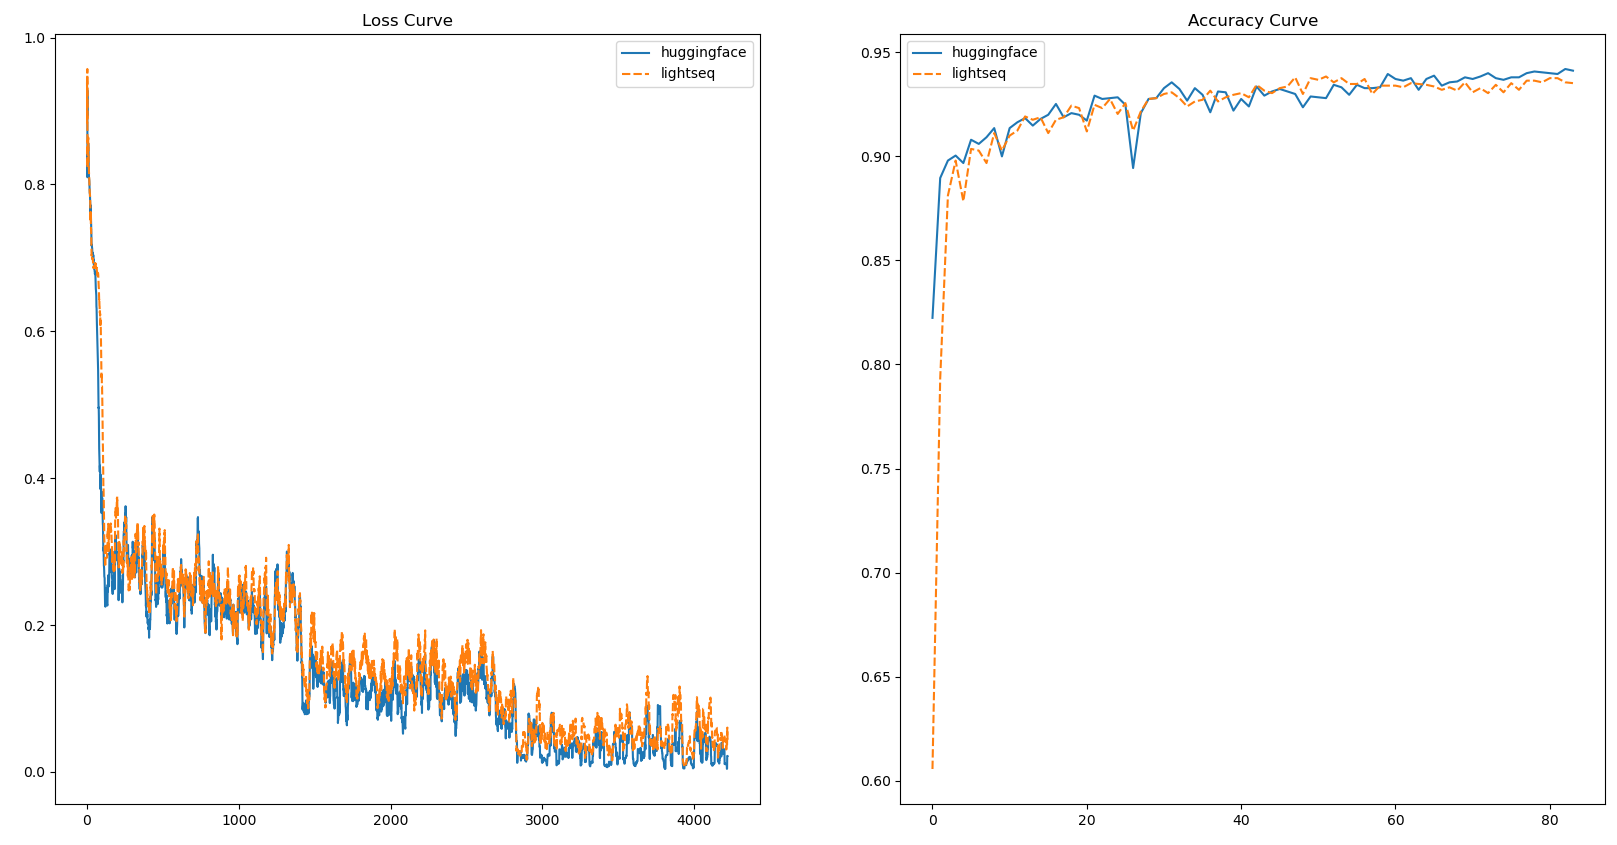
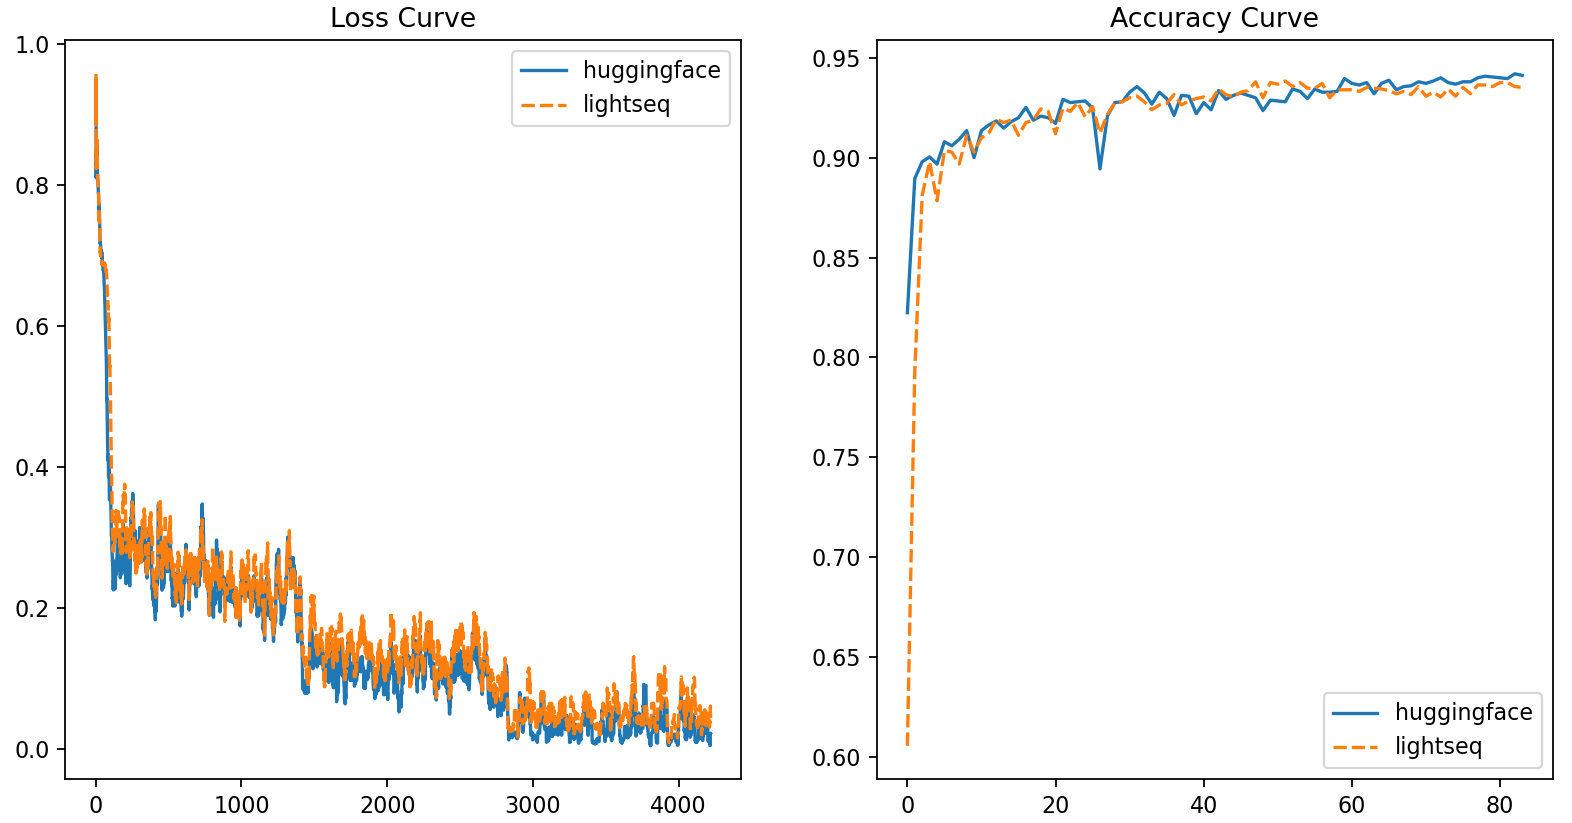
Update graphs

diff --git a/benchmark/systematic_graph.py b/benchmark/systematic_graph.py
@@ -20,37 +20,49 @@ batch_size = {8: 'black', 16: 'pink', 32: 'brown'}
 device_color = "tab10"
 
 # (2, 2) subplots
-figs, ax = plt.subplots(2, 2, figsize=(12, 12))
+figs, ax = plt.subplots(2, 2, figsize=(10, 10), dpi=160)
+
 
 # 1st subplot, hue is optimizer
-ax[0, 1].set(xlabel='Time (second)', ylabel='Energy (kW·h)')
+# ax[0, 1].set(xlabel='Time (second)', ylabel='Energy (kW·h)')
+ax[0, 1].set_xlabel(xlabel='Time (second)', fontsize=12)
+ax[0, 1].set_ylabel(ylabel='Energy (kW·h)', fontsize=12)
 # subplot title
-ax[0, 1].set_title('(B) Training Energy and Time')
+ax[0, 1].set_title('(B) Training Energy and Time', fontsize=12)
 # df without TPUv2 and TPUv3
 df_no_TPU = df[(df['device']!='TPUv2') & (df['device']!='TPUv3')]
 sns.scatterplot(data=df_no_TPU, x='time', y='energy', hue='device', palette=device_color, ax=ax[0, 1])
 
 # 2nd boxplot, y is accuracy, x is time, hue is mixed_precision, shape is optimizer
-ax[1, 1].set(xlabel='Time (second)', ylabel='Accuracy (%)')
-ax[1, 1].set_title('(D) Test Accuracy and Time')
+# ax[1, 1].set(xlabel='Time (second)', ylabel='Accuracy (%)')
+ax[1, 1].set_xlabel(xlabel='Time (second)', fontsize=12)
+ax[1, 1].set_ylabel(ylabel='Accuracy (%)', fontsize=12)
+ax[1, 1].set_title('(D) Test Accuracy and Time', fontsize=12)
 sns.scatterplot(data=df, x='time', y='accuracy', hue='mixed_precision', palette=mixed_precision, ax=ax[1, 1], style='optimizer')
 
 # 3nd subplot, x is cost, y is time
-ax[1, 0].set(ylabel='Cost ($)', xlabel='Time (second)')
-ax[1, 0].set_title('(C) Training Cost and Time')
+# ax[1, 0].set(ylabel='Cost ($)', xlabel='Time (second)')
+ax[1, 0].set_xlabel(xlabel='Time (second)', fontsize=12)
+ax[1, 0].set_ylabel(ylabel='Cost ($)', fontsize=12)
+ax[1, 0].set_title('(C) Training Cost and Time', fontsize=12)
 sns.scatterplot(data=df, y='cost', x='time', hue='device', palette=device_color, ax=ax[1, 0])
 
 # 4th subplot, x is cost, y is energy
-ax[0, 0].set(ylabel='Cost ($)', xlabel='Energy (kW·h)')
-ax[0, 0].set_title('(A) Training Cost and Energy')
+# ax[0, 0].set(ylabel='Cost ($)', xlabel='Energy (kW·h)')
+ax[0, 0].set_xlabel(xlabel='Energy (kW·h)', fontsize=12)
+ax[0, 0].set_ylabel(ylabel='Cost ($)', fontsize=12)
+ax[0, 0].set_title('(A) Training Cost and Energy', fontsize=12)
 sns.scatterplot(data=df[(df['device']!='TPUv2') & (df['device']!='TPUv3')], y='cost', x='energy', hue='device', palette=device_color, ax=ax[0, 0])
 
-plt.savefig('overall_results_v3.png')
+
+plt.savefig('overall_results_v3_fnt12.png')
 
 # new figure for {v100 lightseq fused adan, batch size=16, 32}, {A100 huggingface fused adan, batch size=16 32}, {V100 huggingface fused adan, batch size=16 32}
-fig, ax = plt.subplots(1, 1, figsize=(6, 6))
-ax.set(xlabel='Time (second)', ylabel='Energy (kW·h)')
-ax.set_title('Software Optimization Energy and Time')
+fig, ax = plt.subplots(1, 1, figsize=(6, 6), dpi=160)
+# ax.set(xlabel='Time (second)', ylabel='Energy (kW·h)')
+ax.set_xlabel(xlabel='Time (second)', fontsize=12)
+ax.set_ylabel(ylabel='Energy (kW·h)', fontsize=12)
+ax.set_title('Software Optimization Energy and Time', fontsize=12)
 df_1 = df[(df['device']=='V100') & (df['module']=='lightseq') & (df['optimizer']=='adan') & (df['batch_size']==16)]
 df_2 = df[(df['device']=='V100') & (df['module']=='lightseq') & (df['optimizer']=='adan') & (df['batch_size']==32)]
 df_3 = df[(df['device']=='A100') & (df['module']=='huggingface') & (df['optimizer']=='adan') & (df['batch_size']==16)]
@@ -61,55 +73,73 @@ df_new = pd.concat([df_1, df_2, df_3, df_4, df_5])
 # drop fp32
 df_new = df_new[df_new['mixed_precision']!='fp32']
 sns.scatterplot(data=df_new, x='time', y='energy', hue='device', palette=device_color, ax=ax)
-plt.savefig('Software_Optimization_v3.png')
+plt.savefig('Software_Optimization_v3_fnt12.png')
 
 # new figure for mixed precision
-fig, ax = plt.subplots(1, 1, figsize=(6, 6))
-ax.set(xlabel='Time (second)', ylabel='Energy (kW·h)')
-ax.set_title('Mixed Precision Energy and Time')
+fig, ax = plt.subplots(1, 1, figsize=(6, 6), dpi=160)
+# ax.set(xlabel='Time (second)', ylabel='Energy (kW·h)')
+# ax.set_title('Mixed Precision Energy and Time')
+ax.set_xlabel(xlabel='Time (second)', fontsize=12)
+ax.set_ylabel(ylabel='Energy (kW·h)', fontsize=12)
+ax.set_title('Mixed Precision Energy and Time', fontsize=12)
 sns.scatterplot(data=df[(df['device']!='TPUv2') & (df['device']!='TPUv3')], x='time', y='energy', hue='device', palette=device_color, ax=ax, style='mixed_precision')
-plt.savefig('Mixed_Precision_v3.png')
+plt.savefig('Mixed_Precision_v3_fnt12.png')
 
 # new figure for different hardware on their best training time and cost
-fig, ax = plt.subplots(1, 1, figsize=(6, 6))
-ax.set(xlabel='Time (second)', ylabel='Cost ($)')
-ax.set_title('Best training time and cost for each device')
+fig, ax = plt.subplots(1, 1, figsize=(6, 6), dpi=160)
+# ax.set(xlabel='Time (second)', ylabel='Cost ($)')
+# ax.set_title('Best training time and cost for each device')
+ax.set_xlabel(xlabel='Time (second)', fontsize=12)
+ax.set_ylabel(ylabel='Cost ($)', fontsize=12)
+ax.set_title('Best training time and cost for each device', fontsize=12)
 # get rows of the best time for each device
 df_best_time = df.loc[df.groupby(['device'])['time'].idxmin()]
 print(df_best_time)
 sns.scatterplot(data=df_best_time, x='time', y='cost', hue='device', palette=device_color, ax=ax)
-plt.savefig('Best_Time_Cost_v3.png')
+plt.savefig('Best_Time_Cost_v3_fnt12.png')
 
 # new figure for different optimizer, x is time, y is accuracy
-fig, ax = plt.subplots(1, 1, figsize=(6, 6))
-ax.set(xlabel='Time (second)', ylabel='Accuracy (%)')
-ax.set_title('Optimizer Accuracy and Time')
+fig, ax = plt.subplots(1, 1, figsize=(6, 6), dpi=160)
+# ax.set(xlabel='Time (second)', ylabel='Accuracy (%)')
+# ax.set_title('Optimizer Accuracy and Time')
+ax.set_xlabel(xlabel='Time (second)', fontsize=12)
+ax.set_ylabel(ylabel='Accuracy (%)', fontsize=12)
+ax.set_title('Optimizer Accuracy and Time', fontsize=12)
 sns.scatterplot(data=df, x='time', y='accuracy', hue='optimizer', palette=optimizer, ax=ax)
-plt.savefig('Optimizer_Accuracy_Time_v3.png')
+plt.savefig('Optimizer_Accuracy_Time_v3_fnt12.png')
 
 # (2, 2) subplots for accuracy on devices, on different batch size, on different mixed precision, on different module
-figs, ax = plt.subplots(2, 2, figsize=(12, 12))
+figs, ax = plt.subplots(2, 2, figsize=(10, 10), dpi=160)
 
 # 1st subplot, hue is optimizer
-ax[0, 0].set(xlabel='Device', ylabel='Accuracy (%)')
+# ax[0, 0].set(xlabel='Device', ylabel='Accuracy (%)')
+ax[0, 0].set_ylabel(ylabel='Accuracy (%)', fontsize=12)
+ax[0, 0].set_xlabel(xlabel='Device', fontsize=12)
 # subplot title
-ax[0, 0].set_title('(A) Test Accuracy on Different Devices')
+ax[0, 0].set_title('(A) Test Accuracy on Different Devices', fontsize=12)
 sns.boxplot(data=df, x='device', y='accuracy', ax=ax[0, 0])
 
 # 2nd boxplot, y is accuracy, x is batch_size, hue is mixed_precision, shape is optimizer
-ax[0, 1].set(xlabel='Batch Size', ylabel='Accuracy (%)')
-ax[0, 1].set_title('(B) Test Accuracy on Different Batch Size')
+# ax[0, 1].set(xlabel='Batch Size', ylabel='Accuracy (%)')
+# ax[0, 1].set_title('(B) Test Accuracy on Different Batch Size')
+ax[0, 1].set_ylabel(ylabel='Accuracy (%)', fontsize=12)
+ax[0, 1].set_xlabel(xlabel='Batch Size', fontsize=12)
+ax[0, 1].set_title('(B) Test Accuracy on Different Batch Size', fontsize=12)
 sns.boxplot(data=df, x='batch_size', y='accuracy', ax=ax[0, 1])
 
 # 3nd subplot, x is module, y is accuracy
-ax[1, 0].set(ylabel='Accuracy (%)', xlabel='Module')
-ax[1, 0].set_title('(C) Test Accuracy on Different Modules')
+# ax[1, 0].set(ylabel='Accuracy (%)', xlabel='Module')
+ax[1, 0].set_ylabel(ylabel='Accuracy (%)', fontsize=12)
+ax[1, 0].set_xlabel(xlabel='Module', fontsize=12)
+ax[1, 0].set_title('(C) Test Accuracy on Different Modules', fontsize=12)
 sns.boxplot(data=df, y='accuracy', x='module', ax=ax[1, 0])
 
 # 4th subplot, x is mixed_precision, y is accuracy
-ax[1, 1].set(ylabel='Accuracy (%)', xlabel='Data types')
-ax[1, 1].set_title('(D) Test Accuracy on Different Data types')
+# ax[1, 1].set(ylabel='Accuracy (%)', xlabel='Data types')
+ax[1, 1].set_ylabel(ylabel='Accuracy (%)', fontsize=12)
+ax[1, 1].set_xlabel(xlabel='Data types', fontsize=12)
+ax[1, 1].set_title('(D) Test Accuracy on Different Data types', fontsize=12)
 sns.boxplot(data=df, y='accuracy', x='mixed_precision', ax=ax[1, 1])
 
-plt.savefig('Accuracy_with_para_v3.png')
+plt.savefig('Accuracy_with_para_v3_fnt12.png')
 

diff --git a/benchmark/plot_loss_accuracy.py b/benchmark/plot_loss_accuracy.py
@@ -5,9 +5,9 @@ import seaborn as sns
 import matplotlib.pyplot as plt
 import sys
 
-def get_loss_val():
+def get_loss_val(name):
     loss_dict = {}
-    for file_path in glob.glob("./benchmark/loss_val/fused_unfused_3ep/*"):
+    for file_path in glob.glob("./benchmark/loss_val/"+name+"/*"):
         file_name = os.path.basename(file_path)
         # Skip markdown files
         if file_name.endswith(".md"):
@@ -16,6 +16,30 @@ def get_loss_val():
 
         if os.path.isdir(file_path):
             continue
+        
+        file_name = file_name.split(".")[0]
+
+        if name == "fused_unfused_3ep":
+            file_name = file_name.split("_")
+            if "fused" in file_name:
+                file_name = "fused"
+            elif "unfused" in file_name:
+                file_name = "unfused"
+
+        if name == "lightseq":
+            file_name = file_name.split("_")
+            if "lightseq" in file_name:
+                file_name = "lightseq"
+            elif "huggingface" in file_name:
+                file_name = "huggingface"
+
+        if name == "mix_precision":
+            file_name = file_name.split("_")
+            if "mixed" in file_name:
+                file_name = "fp16"
+            elif "unmix" in file_name:
+                file_name = "fp32"
+
         with open(file_path, "r") as f:
             lines = f.readlines()
         loss_values = [float(line.strip()) for line in lines]
@@ -24,9 +48,9 @@ def get_loss_val():
     loss_df = pd.DataFrame.from_dict(loss_dict, orient="index").T
     return loss_df
 
-def get_acc_val():
+def get_acc_val(name):
     acc_dict = {}
-    for file_path in glob.glob("./benchmark/acc_val/fused_unfused_3ep/*"):
+    for file_path in glob.glob("./benchmark/acc_val/"+name+"/*"):
         file_name = os.path.basename(file_path)
         # Skip markdown files
         if file_name.endswith(".md"):
@@ -37,7 +61,30 @@ def get_acc_val():
             continue
         with open(file_path, "r") as f:
             lines = f.readlines()
-        
+
+        file_name = file_name.split(".")[0]
+
+        if name == "fused_unfused_3ep":
+            file_name = file_name.split("_")
+            if "fused" in file_name:
+                file_name = "fused"
+            elif "unfused" in file_name:
+                file_name = "unfused"
+
+        if name == "lightseq":
+            file_name = file_name.split("_")
+            if "lightseq" in file_name:
+                file_name = "lightseq"
+            elif "huggingface" in file_name:
+                file_name = "huggingface"
+            
+        if name == "mix_precision":
+            file_name = file_name.split("_")
+            if "mixed" in file_name:
+                file_name = "fp16"
+            elif "unmix" in file_name:
+                file_name = "fp32"
+
         acc_values = [float(line.strip()) for line in lines]
         acc_dict[file_name] = acc_values
     acc_df = pd.DataFrame.from_dict(acc_dict, orient="index").T
@@ -45,18 +92,18 @@ def get_acc_val():
 
 if __name__ == "__main__":
     # get file name from os.argv
-    file_name = sys.argv[1]
-    fig, axes = plt.subplots(1, 2, figsize=(20, 10))
+    file_name = "fused_unfused_3ep"
+    fig, axes = plt.subplots(1, 2, figsize=(12, 6), dpi=160)
 
-    loss_df = get_loss_val().sort_index(axis=1)
-    acc_df = get_acc_val().sort_index(axis=1)
+    loss_df = get_loss_val(file_name).sort_index(axis=1)
+    acc_df = get_acc_val(file_name).sort_index(axis=1)
 
 
     sns.lineplot(data=loss_df, ax=axes[0])
     sns.lineplot(data=acc_df, ax=axes[1])
 
-    axes[0].set_title("Loss Curve")
-    axes[1].set_title("Accuracy Curve")
+    axes[0].set_title("Loss Curve", fontsize=12)
+    axes[1].set_title("Accuracy Curve", fontsize=12)
 
     plt.savefig("./benchmark/figure/"+file_name+"_acc_loss_curve.png")
 

diff --git a/benchmark/tempCodeRunnerFile.py b/benchmark/tempCodeRunnerFile.py
@@ -1,1 +1,1 @@
-6, 6
+file_path
